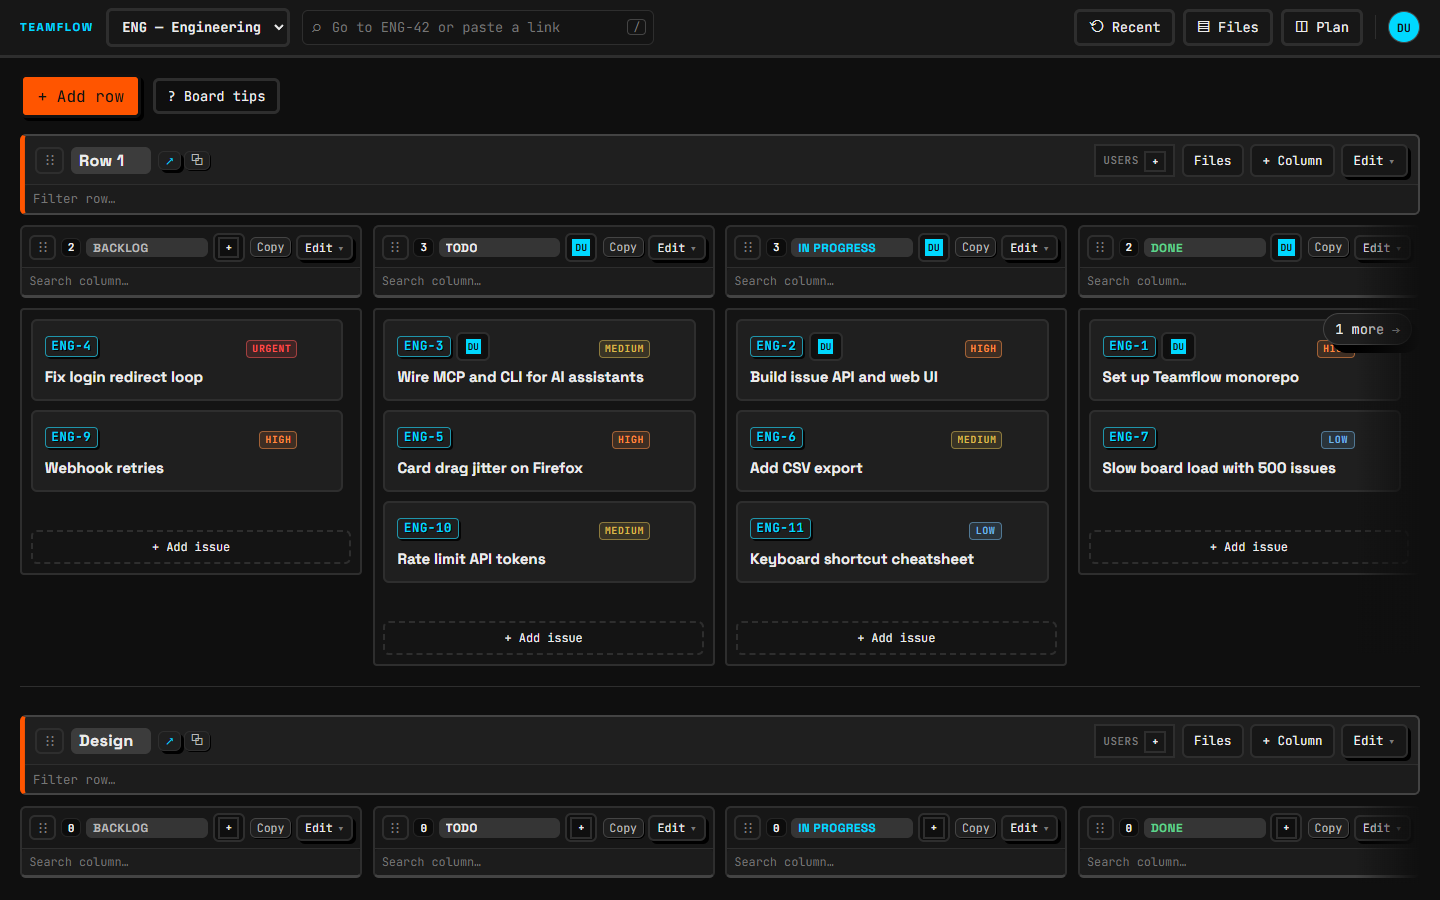
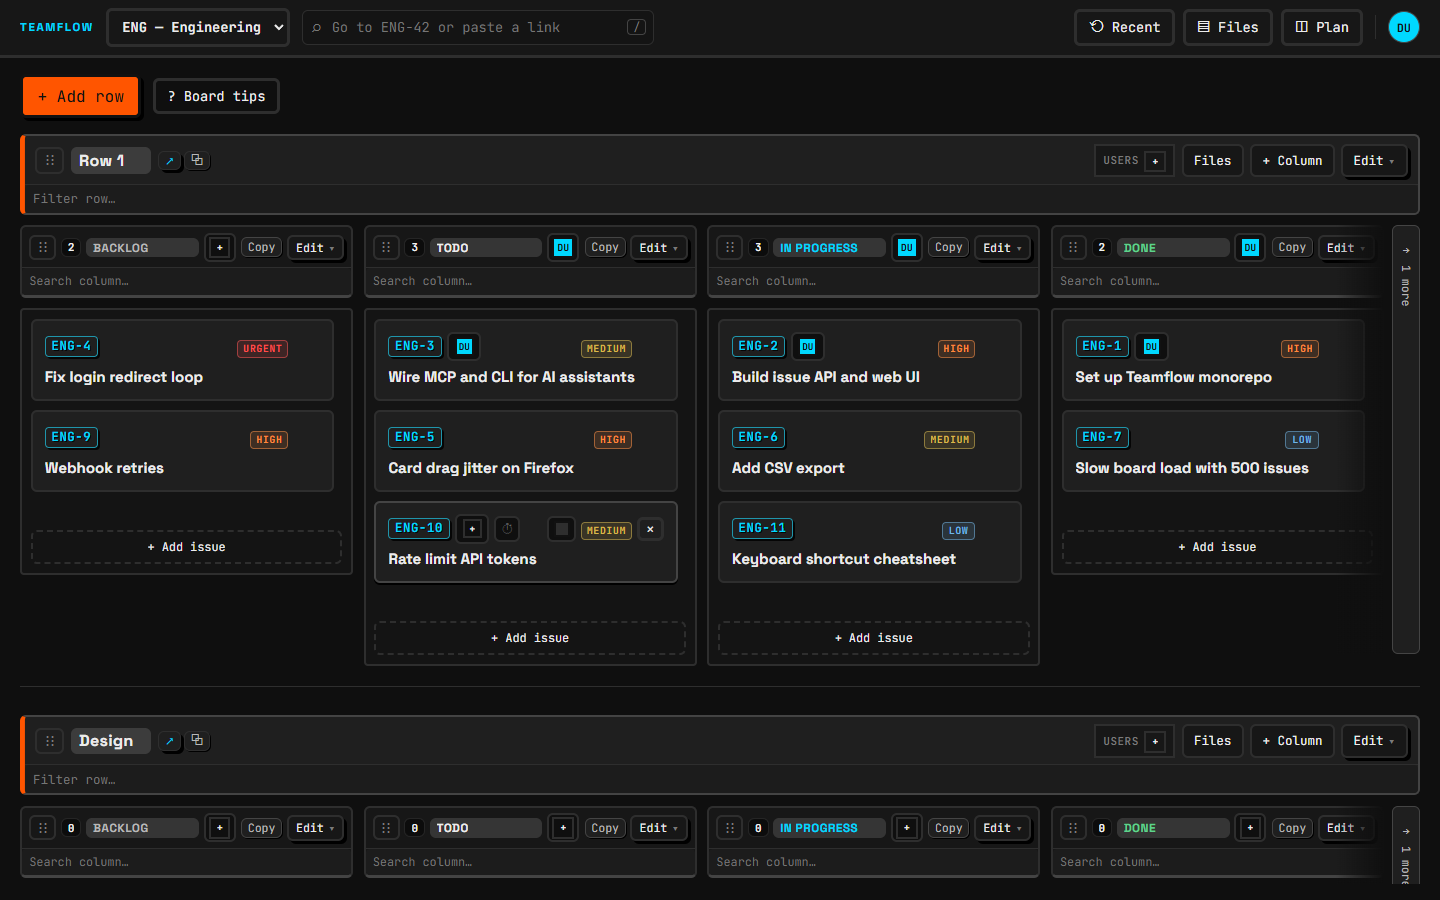
Move row scroll step buttons into a gutter so they never cover cards
The '← n' / 'n more →' buttons were absolutely positioned over the columns and
hid the first DONE card's priority badge at 1440. They are now slim vertical
bars in their own grid gutter beside the scroller (the scroller narrows, so
Auto column widths still fit four), with the edge fades next to them. A unit
test checks the buttons sit outside the scroller; a browser check found 0
button/card overlaps at 1440, 1024 and 375, scrolled and unscrolled.
Board after-screenshots retaken.

diff --git a/apps/web/src/styles/board.css b/apps/web/src/styles/board.css
@@ -1017,10 +1017,18 @@ body.board-pan-active {
   overflow: hidden;
 }
 
-/* Row scroll affordance: fade the edge that has more columns, and a button to step one column. */
+/* Row scroll affordance: when columns run past an edge, that edge fades and a slim step button
+   sits in its own gutter beside the scroller, so it never covers a card. */
 .board-row-scroll-frame {
+  --row-scroll-gutter: 1.75rem;
   position: relative;
+  display: grid;
+  grid-template-columns: auto minmax(0, 1fr) auto;
   min-width: 0;
+}
+
+.board-row-scroll-frame > .board-row-scroll {
+  grid-column: 2;
 }
 
 .board-row-scroll-frame::before,
@@ -1029,7 +1037,7 @@ body.board-pan-active {
   position: absolute;
   top: 0;
   bottom: 12px;
-  width: 64px;
+  width: 48px;
   pointer-events: none;
   opacity: 0;
   transition: opacity 0.15s ease;
@@ -1037,12 +1045,12 @@ body.board-pan-active {
 }
 
 .board-row-scroll-frame::before {
-  left: 0;
+  left: calc(var(--row-scroll-gutter) + var(--space-2));
   background: linear-gradient(to left, transparent, var(--bg));
 }
 
 .board-row-scroll-frame::after {
-  right: 0;
+  right: calc(var(--row-scroll-gutter) + var(--space-2));
   background: linear-gradient(to right, transparent, var(--bg));
 }
 
@@ -1052,16 +1060,25 @@ body.board-pan-active {
 }
 
 .board-row-scroll-btn {
-  position: absolute;
-  top: 5.5rem;
-  z-index: var(--z-sticky);
-  padding: 0.35rem 0.7rem;
-  font-size: var(--font-size-sm);
+  display: flex;
+  flex-direction: column;
+  justify-content: flex-start;
+  align-items: center;
+  gap: var(--space-2);
+  width: var(--row-scroll-gutter);
+  margin-bottom: 12px;
+  padding: var(--space-4) 0;
+  font-size: var(--font-size-xs);
   background: var(--panel);
-  color: var(--text);
+  color: var(--text-soft);
   border: 1px solid var(--border-strong);
-  border-radius: 999px;
-  box-shadow: var(--chrome-modal-shadow);
+  border-radius: var(--radius-sm);
+  box-shadow: none;
+}
+
+.board-row-scroll-btn-label {
+  writing-mode: vertical-rl;
+  white-space: nowrap;
 }
 
 .board-row-scroll-btn:hover {
@@ -1070,11 +1087,13 @@ body.board-pan-active {
 }
 
 .board-row-scroll-btn--before {
-  left: var(--space-2);
+  grid-column: 1;
+  margin-right: var(--space-2);
 }
 
 .board-row-scroll-btn--after {
-  right: var(--space-2);
+  grid-column: 3;
+  margin-left: var(--space-2);
 }
 
 .column-empty {

diff --git a/apps/web/src/components/RowScroller.tsx b/apps/web/src/components/RowScroller.tsx
@@ -22,7 +22,8 @@ function measure(scroller: HTMLElement): Overflow {
 
 /**
  * Horizontal scroller for one board row. When columns run past either edge it fades that edge
- * and offers a button that scrolls one column ("3 more →", "←").
+ * and adds a slim button in a gutter beside the scroller (never over cards) that scrolls one
+ * column ("3 more →", "← 2").
  */
 export function RowScroller({ children }: { children: ReactNode }) {
   const scrollerRef = useRef<HTMLDivElement | null>(null);
@@ -67,9 +68,6 @@ export function RowScroller({ children }: { children: ReactNode }) {
     <div
       className={`board-row-scroll-frame${overflow.before ? " has-before" : ""}${overflow.after ? " has-after" : ""}`}
     >
-      <div ref={scrollerRef} className="board-row-scroll">
-        {children}
-      </div>
       {overflow.before > 0 ? (
         <button
           type="button"
@@ -77,9 +75,13 @@ export function RowScroller({ children }: { children: ReactNode }) {
           aria-label={`Scroll left (${overflow.before} more)`}
           onClick={() => scrollByColumn(-1)}
         >
-          ←
+          <span aria-hidden="true">←</span>
+          <span className="board-row-scroll-btn-label">{overflow.before} more</span>
         </button>
       ) : null}
+      <div ref={scrollerRef} className="board-row-scroll">
+        {children}
+      </div>
       {overflow.after > 0 ? (
         <button
           type="button"
@@ -87,7 +89,8 @@ export function RowScroller({ children }: { children: ReactNode }) {
           aria-label={`Scroll right (${overflow.after} more ${overflow.after === 1 ? "column" : "columns"})`}
           onClick={() => scrollByColumn(1)}
         >
-          {overflow.after} more →
+          <span aria-hidden="true">→</span>
+          <span className="board-row-scroll-btn-label">{overflow.after} more</span>
         </button>
       ) : null}
     </div>

diff --git a/apps/web/tests/rowScroller.test.tsx b/apps/web/tests/rowScroller.test.tsx
@@ -1,0 +1,39 @@
+import { render, screen } from "@testing-library/react";
+import { afterEach, describe, expect, it, vi } from "vitest";
+import { RowScroller } from "../src/components/RowScroller";
+
+function rect(left: number, width: number) {
+  return new DOMRect(left, 0, width, 100);
+}
+
+afterEach(() => vi.restoreAllMocks());
+
+describe("RowScroller", () => {
+  it("puts the step buttons beside the scroller, never inside the card area", () => {
+    // Viewport 0-1000 px; five 300px columns, so two run past the right edge.
+    vi.spyOn(Element.prototype, "getBoundingClientRect").mockImplementation(function (
+      this: Element,
+    ) {
+      if (this.classList.contains("board-row-scroll")) return rect(0, 1000);
+      const index = Number((this as HTMLElement).dataset.col ?? -1);
+      return index >= 0 ? rect(index * 310, 300) : rect(0, 0);
+    });
+
+    render(
+      <RowScroller>
+        <div className="board-row-columns">
+          {[0, 1, 2, 3, 4].map((i) => (
+            <div key={i} data-col={i} />
+          ))}
+        </div>
+      </RowScroller>,
+    );
+
+    const after = screen.getByRole("button", { name: "Scroll right (2 more columns)" });
+    const scroller = document.querySelector(".board-row-scroll")!;
+    expect(scroller.contains(after)).toBe(false);
+    expect(after.parentElement).toBe(scroller.parentElement);
+    expect(after.previousElementSibling).toBe(scroller);
+    expect(screen.queryByRole("button", { name: /Scroll left/ })).not.toBeInTheDocument();
+  });
+});
